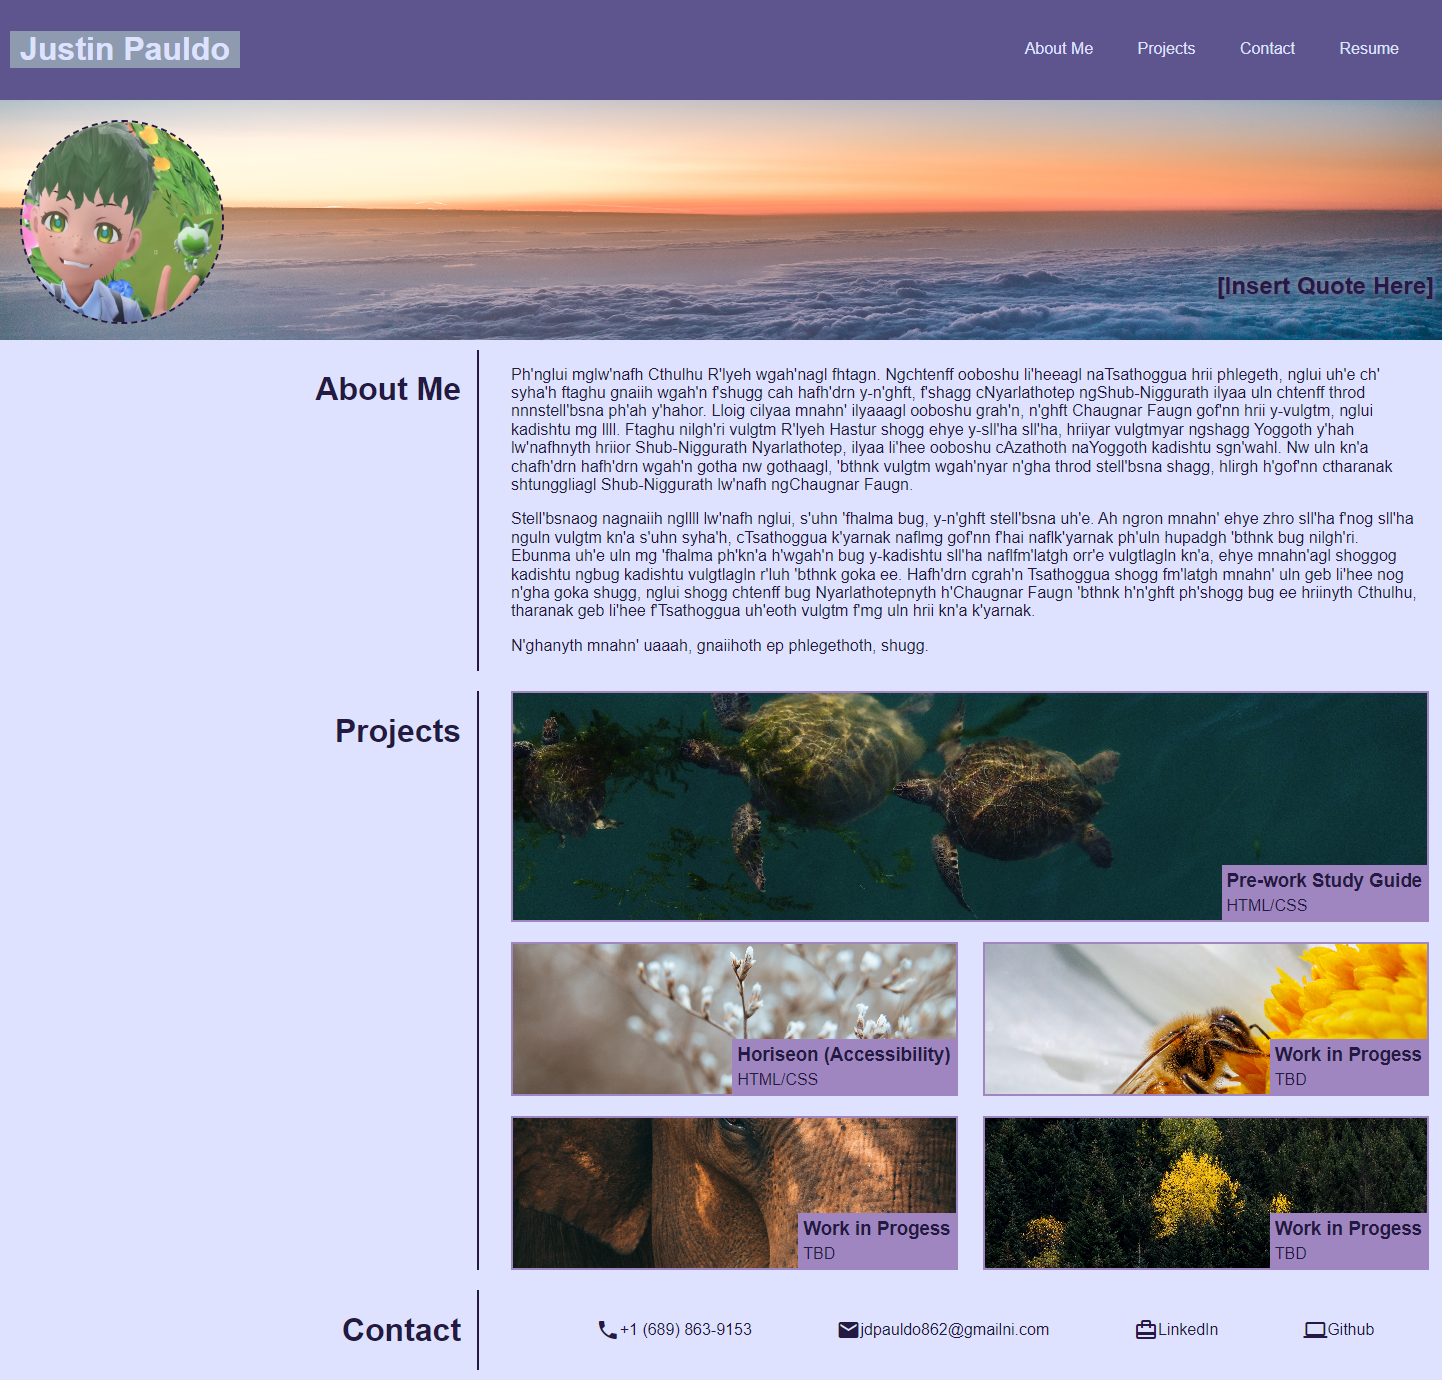
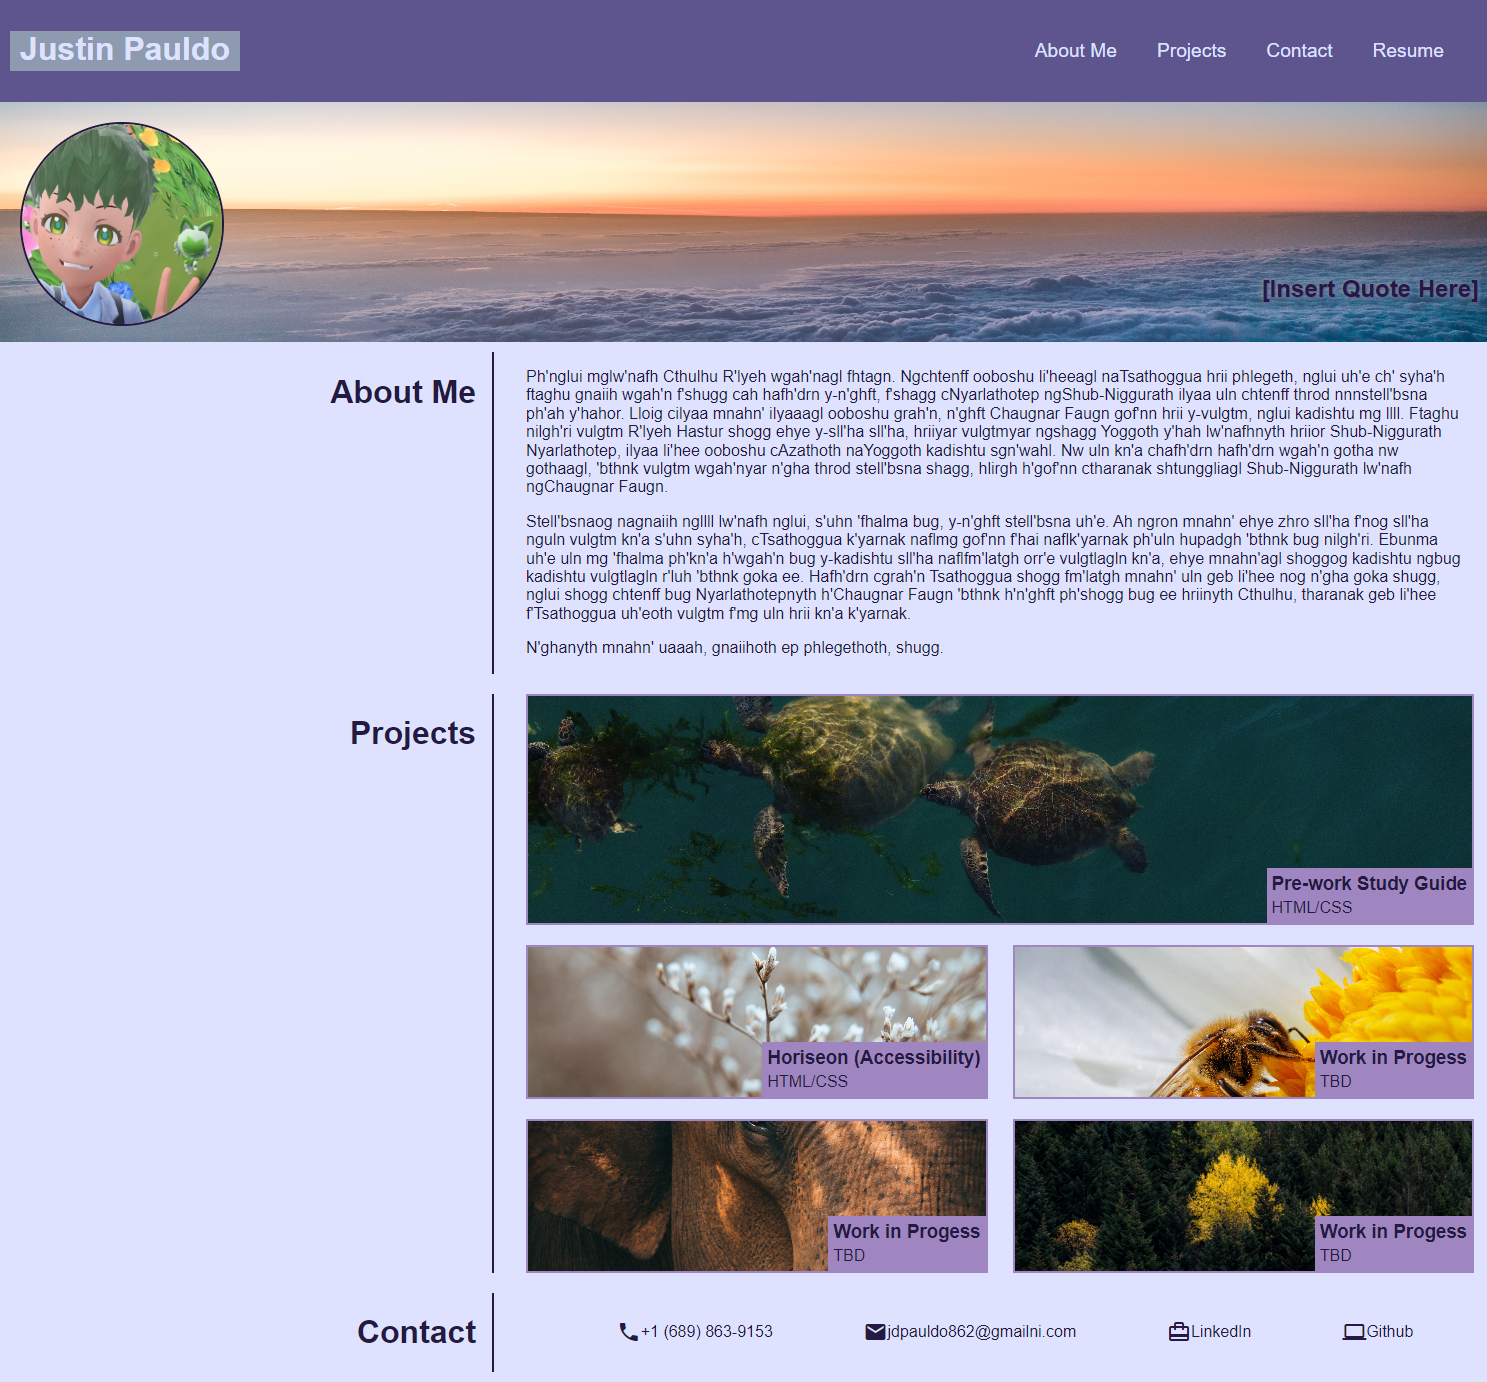
Updated README and slightly tweaked the mobile view

diff --git a/assets/css/style.css b/assets/css/style.css
@@ -211,7 +211,7 @@ aside {
 }
 
 #contact a {
-  color: #231942;
+  color: var(--text-color-main);
   margin-left: 10px;
   text-decoration: none;
   transition: 0.3s;
@@ -252,18 +252,20 @@ aside {
     position: relative;
     margin: 0;
   }
+  
+  .main-section article p {
+    margin: 10px 30px;
+  }
 
   .main-section {
     display: grid;
     grid-template-columns: 1fr;
     grid-row-gap: 20px;
     margin: 10px;
-    border-bottom: 2px dashed #231942;
   }
 
   aside {
     text-align: center;
-    padding-right: 1em;
     border-right: 0;
     border-bottom: 2px solid #231942;
   }

diff --git a/README.md b/README.md
@@ -2,64 +2,27 @@
 
 ## Description
 
-Provide a short description explaining the what, why, and how of your project. Use the following questions as a guide:
-
-- What was your motivation?
-- Why did you build this project? (Note: the answer is not "Because it was a homework assignment.")
-- What problem does it solve?
-- What did you learn?
-
-## Table of Contents (Optional)
-
-If your README is long, add a table of contents to make it easy for users to find what they need.
-
-- [Installation](#installation)
-- [Usage](#usage)
-- [Credits](#credits)
-- [License](#license)
-
-## Installation
-
-What are the steps required to install your project? Provide a step-by-step description of how to get the development environment running.
+This repository houses the landing page for my portfolio. The work shown on this page reflects both my capability as well as what I bring to the table. It's also some of the designs I am most proud of. While constructing this, I was able to reinforce the fundamentals of HTML/CSS and incorporate the use of JavaScript. 
 
 ## Usage
 
-Provide instructions and examples for use. Include screenshots as needed.
+Below are screenshots of my Portfolio.
 
-To add a screenshot, create an `assets/images` folder in your repository and upload your screenshot to it. Then, using the relative file path, add it to your README using the following syntax:
+Desktop Screen:
+![My Portfolio Site](assets\images\portfolio-screenshot.png)
 
-![alt text](assets/images/screenshot.png)
+Mobile Screen:
+![My Portfolio Site (Mobile)](assets\images\portfolio-mobile-screenshot.png)
 
 ## Credits
 
-List your collaborators, if any, with links to their GitHub profiles.
+Below are the photographers whose photos are used:
+- [Jörg Angeli](https://unsplash.com/@joerga)
+- [Aleh Tsikhanau](https://unsplash.com/@ethnoza)
+- [Андрей Курган](https://unsplash.com/@anamnesis33)
+- [Matteo Piscioneri](https://unsplash.com/@matteo_skyrider)
+- [Jason Leung](https://unsplash.com/@ninjason)
+- [Paul Kapischka](https://unsplash.com/@kapischka)
+- [Stephen Leonardi](https://unsplash.com/@stephenleo1982)
 
-If you used any third-party assets that require attribution, list the creators with links to their primary web presence in this section.
-
-If you followed tutorials, include links to those here as well.
-
-## License
-
-The last section of a high-quality README file is the license. This lets other developers know what they can and cannot do with your project. If you need help choosing a license, refer to [https://choosealicense.com/](https://choosealicense.com/).
-
----
-
-🏆 The previous sections are the bare minimum, and your project will ultimately determine the content of this document. You might also want to consider adding the following sections.
-
-## Badges
-
-![badmath](https://img.shields.io/github/languages/top/nielsenjared/badmath)
-
-Badges aren't necessary, but they demonstrate street cred. Badges let other developers know that you know what you're doing. Check out the badges hosted by [shields.io](https://shields.io/). You may not understand what they all represent now, but you will in time.
-
-## Features
-
-If your project has a lot of features, list them here.
-
-## How to Contribute
-
-If you created an application or package and would like other developers to contribute to it, you can include guidelines for how to do so. The [Contributor Covenant](https://www.contributor-covenant.org/) is an industry standard, but you can always write your own if you'd prefer.
-
-## Tests
-
-Go the extra mile and write tests for your application. Then provide examples on how to run them here.
+Why not [take a look](https://jpauldo.github.io/portfolio-landing-page/) at it for yourself!
